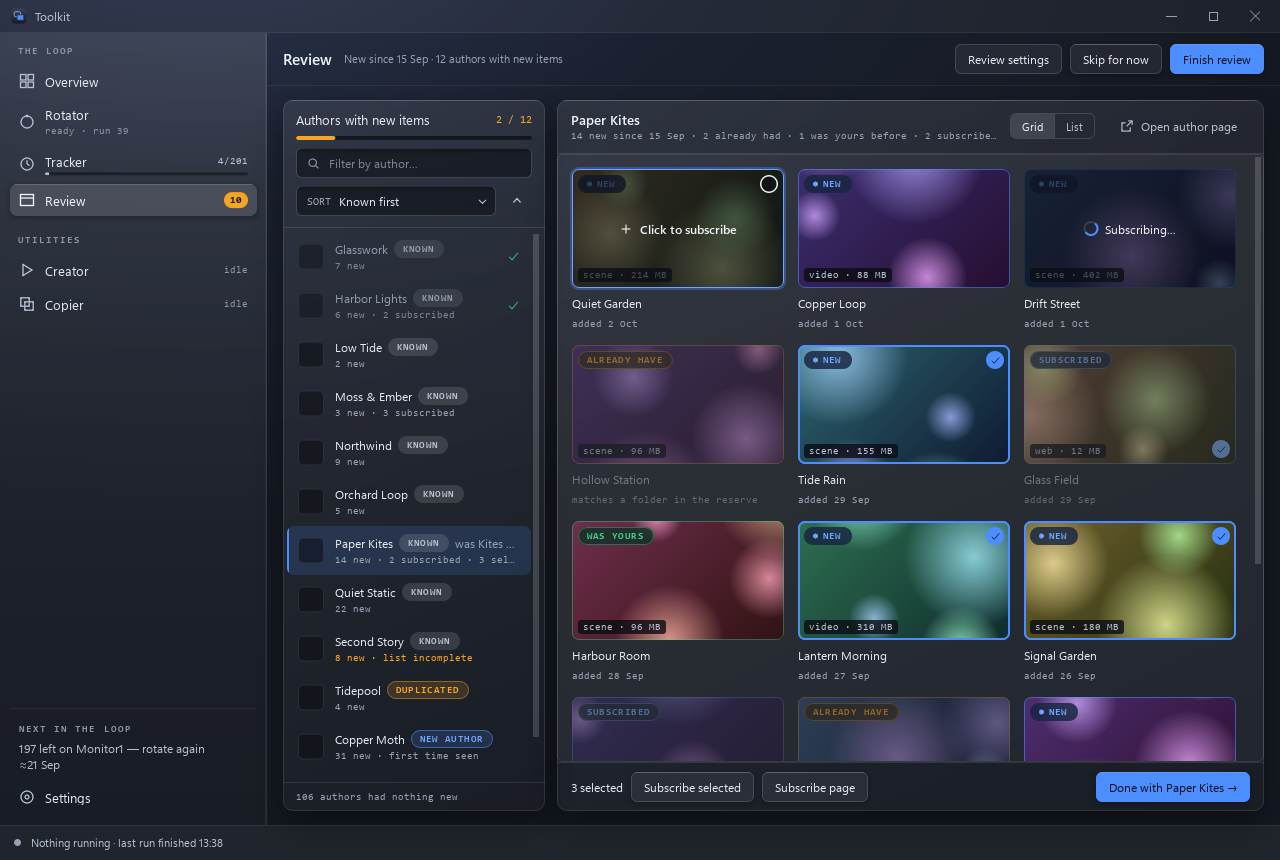
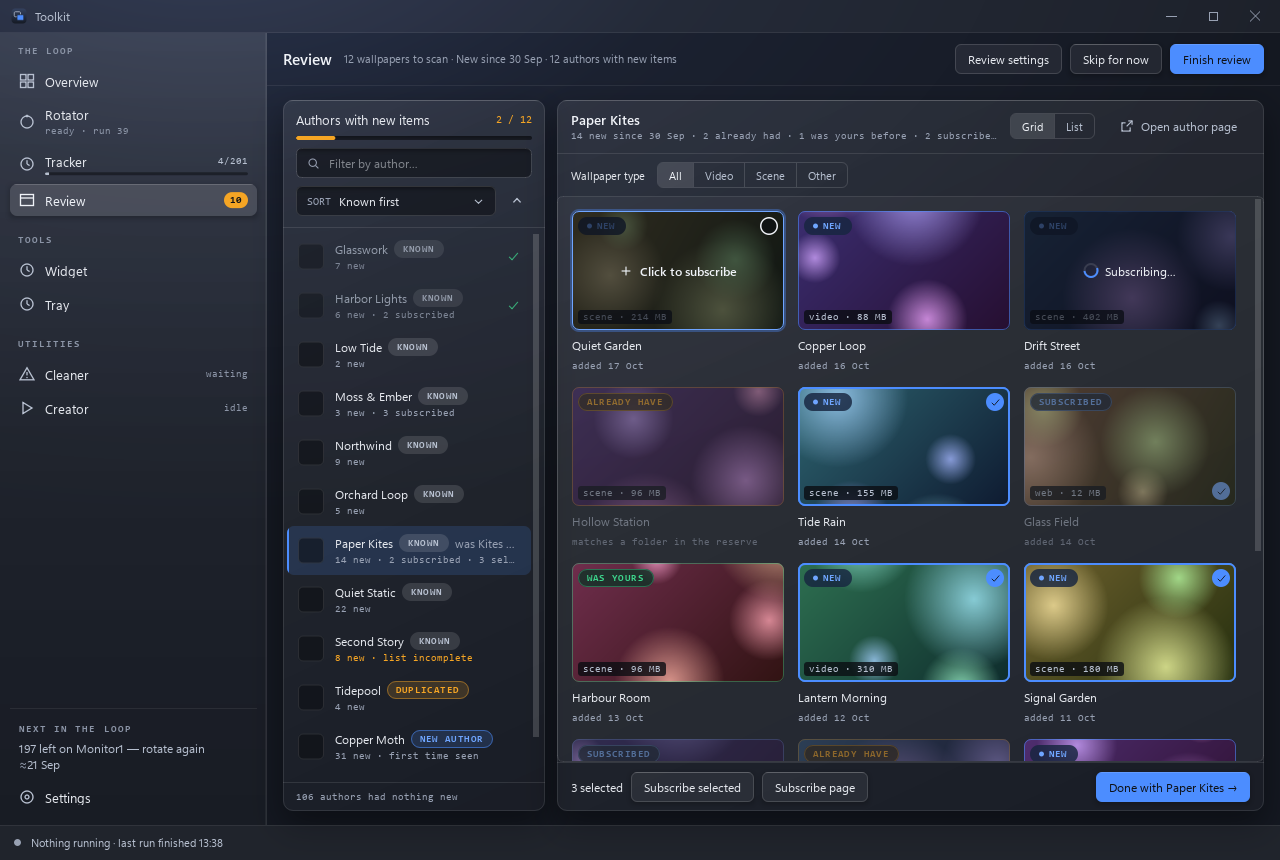
Filter Review galleries by wallpaper type (4.6.0) (#78)

diff --git a/app/pages/review.py b/app/pages/review.py
@@ -901,6 +901,7 @@ class _FoundPanel(GlassPanel):
 
 
 VIEWS = ("grid", "list")
+WALLPAPER_TYPES = ("all", "video", "scene", "other")
 
 
 class _GalleryPanel(GlassPanel):
@@ -933,6 +934,19 @@ class _GalleryPanel(GlassPanel):
         row.addWidget(self.author_page)
         column.addWidget(head)
         column.addWidget(Rule())
+        self.type_row = QWidget()
+        filters = QHBoxLayout(self.type_row)
+        filters.setContentsMargins(pad_h, theme.SP_8, pad_h, theme.SP_8)
+        filters.setSpacing(theme.SP_12)
+        filters.addWidget(label("Wallpaper type", "type.label", "body"))
+        self.wallpaper_type = SegmentedControl([kind.title() for kind in WALLPAPER_TYPES])
+        self.wallpaper_type.setAccessibleName("Filter wallpapers by type")
+        self.wallpaper_type.setToolTip("Filter this author's wallpapers. Other includes web, "
+                                       "application and unknown types. Authors and visit dates "
+                                       "are unaffected.")
+        filters.addWidget(self.wallpaper_type)
+        filters.addStretch(1)
+        column.addWidget(self.type_row)
         self.stack = QStackedWidget()
         self.stack.addWidget(gallery)
         holder = QWidget()
@@ -972,6 +986,7 @@ class _GalleryPanel(GlassPanel):
         self.bar.setVisible(on)
         self.author_page.setVisible(on)
         self.view.setVisible(on)
+        self.type_row.setVisible(on)
 
     def set_mode(self, mode: str) -> None:
         self._mode = mode if mode in VIEWS else "grid"
@@ -980,7 +995,7 @@ class _GalleryPanel(GlassPanel):
             self.view.set_current_index(VIEWS.index(self._mode))
             self.view.blockSignals(False)
         if self._on:
-            self.stack.setCurrentIndex(VIEWS.index(self._mode))
+            self.stack.setCurrentIndex(VIEWS.index(self._mode) if self.stack.widget(0).total else 2)
 
     def mode(self) -> str:
         return self._mode
@@ -1266,6 +1281,8 @@ class ReviewPage(Page):
         g.done_with.clicked.connect(self.done_with_author)
         g.back.clicked.connect(self.close_review_list)
         g.view.changed.connect(lambda i: self.set_view(VIEWS[i]))
+        g.wallpaper_type.changed.connect(lambda _i: self.open_author(self.current)
+                                         if self.current and not self._listing else None)
         g.set_mode(self._stored_view())
         for view in (self.gallery, self.gallery_list):
             view.subscribe_requested.connect(self.subscribe)
@@ -1847,7 +1864,7 @@ class ReviewPage(Page):
             self._touch(previous)
         self._describe(author_id)
 
-    def _gallery_items(self, author_id: str) -> list:
+    def _gallery_items(self, author_id: str, *, filtered: bool = True) -> list:
         """An author's wallpapers as the scan offered them, newest first — the
         ones subscribed since still among them, set back where they stood."""
         card = self.cards.get(author_id)
@@ -1855,7 +1872,13 @@ class ReviewPage(Page):
         if card is None:
             return []
         taken = author.subscribed if author is not None else set()
-        return [w for w in card.items if w.new_since_visit and (w.offer or w.id in taken)]
+        items = [w for w in card.items if w.new_since_visit and (w.offer or w.id in taken)]
+        kind = WALLPAPER_TYPES[self.gallery_panel.wallpaper_type.current_index()]
+        if not filtered or kind == "all":
+            return items
+        if kind == "other":
+            return [w for w in items if (w.item.kind or "").strip().lower() not in ("video", "scene")]
+        return [w for w in items if (w.item.kind or "").strip().lower() == kind]
 
     def _describe(self, author_id: str) -> None:
         author = self.session.find(author_id)
@@ -1868,6 +1891,10 @@ class ReviewPage(Page):
         g.done_with.show()
         g.name.set_text(author.name)
         g.sub.set_text(gallery_subtitle(author, card, self._now()))
+        if not self.gallery.total:
+            g.empty.set_title("No wallpapers of this type")
+            g.empty.set_body("Choose another wallpaper type to see this author's wallpapers.")
+            g.empty.set_meta("")
         if author.done:
             following = self.session.next_waiting(after=author_id, order=self._ordered())
             g.done_with.setText("Next author →")
@@ -1949,7 +1976,7 @@ class ReviewPage(Page):
         groups, items, owner = [], [], {}
         for author_id in order:
             author = self.session.find(author_id)
-            wallpapers = self._gallery_items(author_id)
+            wallpapers = self._gallery_items(author_id, filtered=False)
             if author is None or not wallpapers:
                 continue
             groups.append(Group(author_id, author.name, note=f"{fmt.count(len(wallpapers))} new"))
@@ -1969,12 +1996,19 @@ class ReviewPage(Page):
         g.show_gallery(True)
         g.set_mode("list")
         g.view.hide()
+        g.type_row.hide()
         g.author_page.hide()
         g.done_with.hide()
         g.back.show()
         g.name.set_text("Every author")
         g.sub.set_text(f"{fmt.counted(self.gallery.total, 'new item')} from "
                        f"{fmt.counted(len(session.authors), 'author')}")
+        if not self.gallery.total:
+            g.empty.set_title("No wallpapers to show")
+            g.empty.set_body("Clear the author search to see this review's wallpapers."
+                             if self.authors.filter.text().strip()
+                             else "This review has no wallpapers to show.")
+            g.empty.set_meta("")
         self._update_bar()
 
     def _scroll_listing_to(self, author_id: str) -> None:

diff --git a/tests/test_review_page.py b/tests/test_review_page.py
@@ -20,6 +20,7 @@ import sys
 import tempfile
 import threading
 import time
+from dataclasses import replace
 from datetime import datetime, timedelta, timezone
 from pathlib import Path
 from unittest.mock import patch
@@ -522,6 +523,79 @@ journal = svc.journal.recent(1)[0]
 check("and the scan is in the activity journal",
       journal.kind == "scan.clean" and journal.title == "13 new items to look at")
 check("the job is gone from the status line", not svc.jobs.is_running("review"))
+
+print("-- wallpaper type filter --")
+type_filter = page.gallery_panel.wallpaper_type
+check("Review starts with all wallpaper types", type_filter.current_index() == 0)
+original_items = page.cards[AUTHORS[3]].items
+types = ["Video", "vIdEo", "Scene", "Web", "Application", ""]
+mixed = [rv.Wallpaper(item=replace(item(f"970{k}", AUTHORS[3], 1), kind=kind),
+                      owned_checked=True) for k, kind in enumerate(types)]
+mixed += [rv.Wallpaper(item=replace(item(f"980{k}", AUTHORS[3], 1), kind="Video"),
+                       owned_checked=True) for k in range(gallery_mod.PAGE_SIZE)]
+page.cards[AUTHORS[3]].items = mixed
+page.open_author(AUTHORS[3])
+authors_before = page.authors.list.model_.ids()
+visits_before = [card.record.visited for card in page.cards.values() if card.record]
+for mode in ("grid", "list"):
+    page.set_view(mode)
+    for index, expected in ((1, mixed[:2] + mixed[6:]), (2, mixed[2:3]),
+                            (3, mixed[3:6]), (0, mixed)):
+        type_filter.set_current_index(index)
+        check(f"{mode}: {type_filter.labels()[index]} shows the matching wallpapers",
+              page.gallery.showing() == expected
+              and page.gallery_list.model_.rowCount() == min(len(expected), gallery_mod.PAGE_SIZE))
+        check(f"{mode}: filtering leaves the authors and visit dates alone",
+              page.authors.list.model_.ids() == authors_before
+              and [card.record.visited for card in page.cards.values() if card.record]
+              == visits_before)
+page.gallery.set_page(2)
+page.gallery.toggle(mixed[-1].id)
+type_filter.set_current_index(2)
+check("changing type returns to page one and drops hidden selections",
+      page.gallery.page == 1 and not page.gallery.selected_ids()
+      and page.gallery_panel.pagination.isHidden())
+queued_types = []
+with patch.object(page.subscriptions, "add", side_effect=lambda ids: queued_types.extend(ids)):
+    settings.set("review", "subscribe", rs.BY_STEAM)
+    page.subscribe_page()
+check("Subscribe page queues only the filtered wallpapers", queued_types == [mixed[2].id])
+page.gallery.mark_busy(mixed[2].id, None)
+page.open_author(AUTHORS[0])
+check("the same type filter is kept when opening another author",
+      page.gallery.total == 1 and not type_filter.isHidden())
+type_filter.set_current_index(1)
+check("an empty filtered gallery leaves the author visible and Subscribe page disabled",
+      page.gallery.total == 0 and not page.gallery_panel.subscribe_page.isEnabled()
+      and page.authors.list.model_.ids() == authors_before and not type_filter.isHidden())
+for mode in ("grid", "list"):
+    page.set_view(mode)
+    check(f"{mode}: an empty type explains what happened and keeps the filter available",
+          page.gallery_panel.stack.currentWidget() is page.gallery_panel.empty
+          and page.gallery_panel.empty.title() == "No wallpapers of this type"
+          and not page.gallery_panel.type_row.isHidden())
+page.open_review_list()
+check("the combined review list is unfiltered and hides the type control",
+      any(w.item.kind == "Scene" for w in page.gallery.showing())
+      and any(w.item.kind == "Video" for w in page.gallery.showing())
+      and page.gallery_panel.type_row.isHidden())
+page.close_review_list()
+page.authors.filter.setText("no matching author")
+page.open_review_list()
+check("an empty combined list never points at the hidden type filter",
+      page.gallery_panel.stack.currentWidget() is page.gallery_panel.empty
+      and page.gallery_panel.empty.title() == "No wallpapers to show"
+      and "author search" in page.gallery_panel.empty.body()
+      and page.gallery_panel.type_row.isHidden())
+page.close_review_list()
+page.authors.filter.clear()
+page.open_author(AUTHORS[0])
+check("returning to an author restores the active type filter",
+      page.gallery.total == 0 and not type_filter.isHidden())
+type_filter.set_current_index(0)
+page.cards[AUTHORS[3]].items = original_items
+page.open_author(AUTHORS[3])
+page.set_view("grid")
 
 page.done_with_author()
 check("Done with Dan: ticked, the next opened, 1 / 4",

diff --git a/tests/test_kit_controls.py b/tests/test_kit_controls.py
@@ -6,7 +6,7 @@ Run it directly (needs Qt, but no windows on screen):
 
 Every class is built in every state and drawn. Beyond that, the rules the
 design states and a page would otherwise have to remember: the fourteen chip
-variants and no more, the Pagination's four numbers, two or three segments,
+variants and no more, the Pagination's four numbers, two to four segments,
 a Toggle that jumps when motion is off, Dropdown rows that cannot be chosen,
 a DangerButton that never takes Enter, and a focus ring for the keyboard only.
 """
@@ -254,12 +254,12 @@ check("and comes back with a second page", not pager.isHidden())
 pager.deleteLater()
 
 
-# ---- SegmentedControl: two or three -------------------------------------------------------------
+# ---- SegmentedControl: two to four --------------------------------------------------------------
 
 check("a SegmentedControl rejects one segment",
       raises(lambda: SegmentedControl(["Queue"]), ValueError))
-check("and four", raises(lambda: SegmentedControl(["a", "b", "c", "d"]), ValueError))
-segments = SegmentedControl(["All", "Problems", "Shown"])
+check("and five", raises(lambda: SegmentedControl(["a", "b", "c", "d", "e"]), ValueError))
+segments = SegmentedControl(["All", "Video", "Scene", "Other"])
 host.row.addWidget(segments)
 app.processEvents()
 chosen: list[int] = []
@@ -268,8 +268,8 @@ segments.setFocus(Qt.TabFocusReason)
 QTest.keyClick(segments, Qt.Key_Right)
 QTest.keyClick(segments, Qt.Key_End)
 QTest.keyClick(segments, Qt.Key_Right)
-check("takes two or three, and the arrow keys move the choice within them",
-      chosen == [1, 2] and segments.current_index() == 2)
+check("takes four, and the arrow keys reach the last choice without overflowing",
+      chosen == [1, 3] and segments.current_index() == 3)
 segments.deleteLater()
 
 

diff --git a/app/ui/kit/selection.py b/app/ui/kit/selection.py
@@ -200,7 +200,7 @@ class Toggle(Interactive, Caster, QAbstractButton):
 # ---- SegmentedControl ----------------------------------------------------------------
 
 class SegmentedControl(Interactive, Caster, QWidget):
-    """Two or three exclusive segments ("Queue / Shown", "All / Problems").
+    """Two to four exclusive segments ("Queue / Shown", "All / Video / Scene / Other").
 
     The chosen one is surface.raised with text.hi, the others transparent with
     text.mid. Arrow keys move the choice; `changed` says where it went.
@@ -210,8 +210,8 @@ class SegmentedControl(Interactive, Caster, QWidget):
 
     def __init__(self, labels, parent: QWidget | None = None, *, current: int = 0):
         labels = [str(text) for text in labels]
-        if not 2 <= len(labels) <= 3:
-            raise ValueError(f"a SegmentedControl has two or three segments, not {len(labels)}: "
+        if not 2 <= len(labels) <= 4:
+            raise ValueError(f"a SegmentedControl has two to four segments, not {len(labels)}: "
                              "for one on/off setting use a Toggle, for more a Dropdown")
         QWidget.__init__(self, parent)
         self._labels = labels

diff --git a/app/__init__.py b/app/__init__.py
@@ -3,4 +3,4 @@
 # The only place the version is written. Every pull request raises it and gives
 # CHANGELOG.md a section for it; tools/release.py holds the rules and CI
 # enforces them.
-__version__ = "4.5.1"
+__version__ = "4.6.0"

diff --git a/docs/development.md b/docs/development.md
@@ -875,7 +875,7 @@ named as in the design, and each has all of the design's states.
 |---|---|
 | `buttons.py` | `AccentButton` (the one action that starts the work), `SecondaryButton`, `DangerButton` (never a dialog's default, so Enter cannot delete), `GhostButton` (`outlined=True` for page headers), `IconButton` (30 px, or 22 px as `size="sm"`; its tool tip is required), `LinkButton` (an action written as a link, for a toast, the status line or a list; never a dialog's default). Text buttons take a leading `icon=`, a trailing `key="Ctrl+V"` cap, and `size="sm"`/`"md"`/`"lg"`. `button_pixmap(text, variant, state)` and `button_size` draw a button's look for a delegate; `icon_button_pixmap(icon, state, size, ink=)` an IconButton's. |
 | `inputs.py` | `TextInput` (`search=True`, `set_error(message)`), `SpinBox` (mono, `1 000` with a no-break space), `Dropdown` (`add_item(text, data, count=)`, `add_section`, `add_separator`, `prefix="SORT"`) and its list, `DropdownPopup` |
-| `selection.py` | `Checkbox`, `Toggle` (`knob_position`), `SegmentedControl` (two or three segments, `changed`), `Pagination` (`page_changed`), `page_numbers(pages, current)` |
+| `selection.py` | `Checkbox`, `Toggle` (`knob_position`), `SegmentedControl` (two to four segments, `changed`), `Pagination` (`page_changed`), `page_numbers(pages, current)` |
 | `chips.py` | `Chip(variant, text=None)` in exactly fourteen variants; `chip_pixmap` and `chip_size` for delegates |
 | `panels.py` | `GlassPanel` (`tone=`, `padding=`), `Overline`, `Rule` (a hairline between two parts of a panel), `IconDisc` (a glyph in a tinted circle before a panel's title: a clean run's tick), `CardTitle`, `Callout` (`tone=`, `title=`, `add_action`), `MetricStrip`, `EmptyState` (`width=`, `add_content` for a console excerpt or numbers between the words and the actions), `StepList`, `ActivityLine`, `Spinner` |
 | `base.py` | the state model and the surfaces, below; `label(text, type, tone)`, `Glyph`, `Elided` (one line cut with an ellipsis, whole in its tool tip) and `LiveDot` (the pulse of a running job); `tab_stops(root)` and `chain_tabs(widgets)` for the Tab order (see [Keyboard](#keyboard-and-accessibility)) |

diff --git a/CHANGELOG.md b/CHANGELOG.md
@@ -6,6 +6,15 @@ adheres to [Semantic Versioning](https://semver.org/spec/v2.0.0.html).
 
 ## [Unreleased]
 
+## [4.6.0] - 2026-10-18
+
+### Added
+
+- Review galleries can filter wallpaper types with All (the default), Video,
+  Scene and Other in both Grid and List. Switching types clears the selection
+  and returns to page one; Subscribe page uses only the filtered wallpapers.
+  The authors list, scan and visit dates are unaffected.
+
 ## [4.5.1] - 2026-10-18
 
 ### Fixed
@@ -1870,7 +1879,8 @@ restructured yet; the tabs keep their layout and take on the new look.
   was right for one library and wrong for every other. Nothing is tagged now
   unless you ask for it.
 
-[Unreleased]: https://github.com/Nykolyn/wallpaper-engine-toolkit/compare/v4.5.1...HEAD
+[Unreleased]: https://github.com/Nykolyn/wallpaper-engine-toolkit/compare/v4.6.0...HEAD
+[4.6.0]: https://github.com/Nykolyn/wallpaper-engine-toolkit/compare/v4.5.1...v4.6.0
 [4.5.1]: https://github.com/Nykolyn/wallpaper-engine-toolkit/compare/v4.5.0...v4.5.1
 [4.5.0]: https://github.com/Nykolyn/wallpaper-engine-toolkit/compare/v4.4.1...v4.5.0
 [4.3.1]: https://github.com/Nykolyn/wallpaper-engine-toolkit/compare/v4.3.0...v4.3.1

diff --git a/docs/review.md b/docs/review.md
@@ -72,6 +72,13 @@ stays visible alongside the current scan or review status.
    [a gallery](gallery.md) — a grid of cards or a list. Click a card to
    subscribe; Ctrl-click or its check selects several, for **Subscribe
    selected**.
+   Use **Wallpaper type** above the gallery to show **All** (the default),
+   **Video**, **Scene**, or **Other** (web, application and unknown types).
+   The filter applies to both Grid and List. Changing it returns to the first
+   page and clears the selection; **Subscribe page** uses the filtered page.
+   It does not change the authors list, scan, visit dates or the finished
+   review's **Open review as a list** view. The choice lasts while this Review
+   page is open; restarting the app starts with All.
 4. Press **Done with <author> →**. The author is ticked, the next one opens,
    and the count at the top of the list moves on: **3 / 12**.
 5. Press **Finish review** in the header. The page lists what it will write
